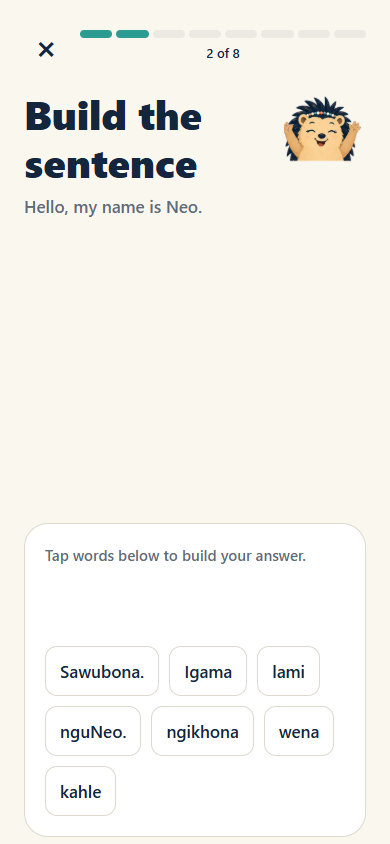
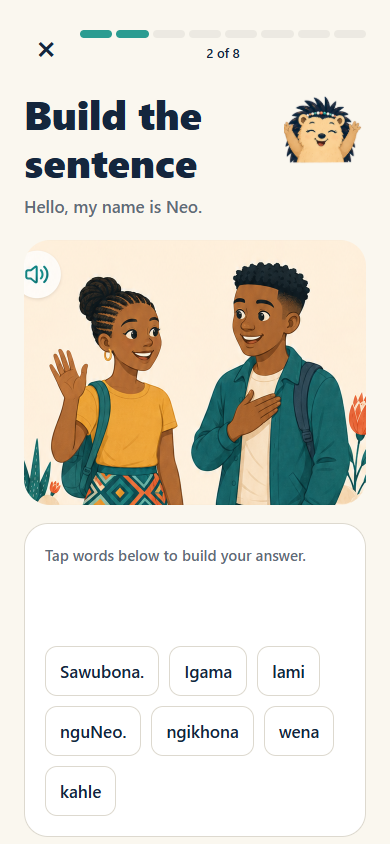
feat: update screenshot capture scripts to isolate storage contexts and improve error handling

diff --git a/src/infra/local/database.ts b/src/infra/local/database.ts
@@ -1,4 +1,22 @@
+import type * as ExpoSQLite from 'expo-sqlite';
+
 import { localDatabaseName, localMigrations } from '@/infra/local/migrations';
+
+/**
+ * Lazily required rather than statically imported. Metro treats a top-level
+ * `import()` as an async code-split boundary, and Expo Router's static web
+ * export serializes each route as its own bundle — so a dynamically-imported
+ * shared module can end up referenced by a module ID that bundle never
+ * registered ("Requiring unknown module"). A plain `require()` call, even
+ * inside a function, is inlined synchronously by Metro instead of split into
+ * a separate chunk, which avoids that mismatch (same fix already applied to
+ * expo-audio and expo-notifications). It also keeps the native binding out of
+ * Jest's module graph until a real caller actually opens the database.
+ */
+function loadExpoSQLite(): typeof ExpoSQLite {
+  // eslint-disable-next-line @typescript-eslint/no-require-imports
+  return require('expo-sqlite');
+}
 
 export type LocalAttempt = {
   id: string;
@@ -172,7 +190,7 @@ export function createMemoryPersistence(): LocalPersistence {
 }
 
 export async function openBuaDatabase(): Promise<LocalPersistence> {
-  const { openDatabaseAsync } = await import('expo-sqlite');
+  const { openDatabaseAsync } = loadExpoSQLite();
   const database = await openDatabaseAsync(localDatabaseName);
   const versionRow = await database.getFirstAsync<{ user_version: number }>('pragma user_version');
   const currentVersion = versionRow?.user_version ?? 0;
